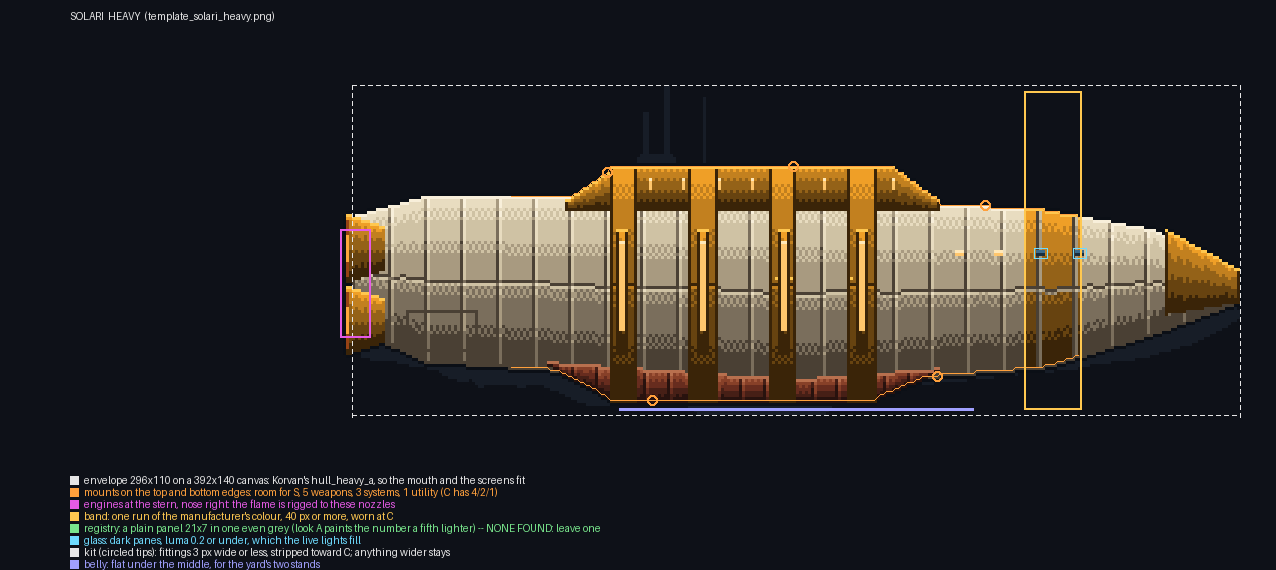
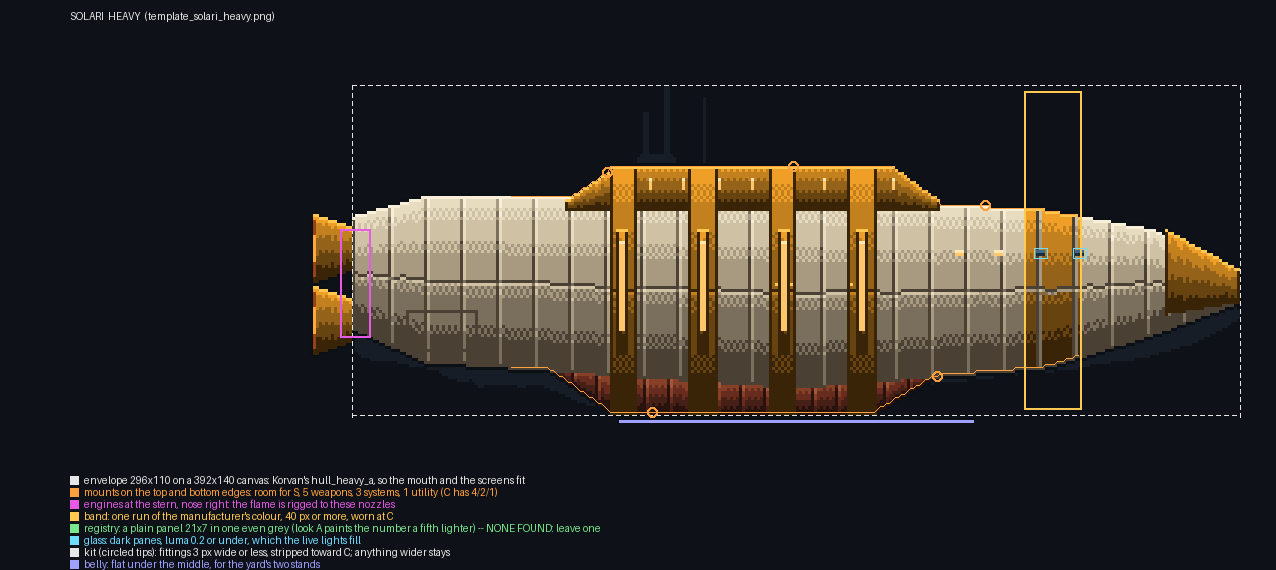
Hull templates: Solari's keel hangs below the belly, the bells on the stern face; Nova's brass nose back on top
Claude-Session: https://claude.ai/code/session_01FQemMvme1wfvjCSMpMkDgS

diff --git a/tkg/art/tools/hull_template.py b/tkg/art/tools/hull_template.py
@@ -135,7 +135,9 @@ def keel(hull, x0, x1, low, **kw):
     """A keel that hangs from the belly itself: its top follows the hull's
     bottom edge (a pixel inside it, so the two join) and its bottom is flat at
     `low`, the ends swept up into the hull (Jon, Oct 15: "the bottom part of
-    the ship is not connected to the bottom of the rounded hull")."""
+    the ship is not connected to the bottom of the rounded hull"). List it
+    BEFORE the hull, so the hull's edge is drawn over the seam and the keel
+    hangs below the body instead of over it ("the keel is now inside the body")."""
     def belly(x):
         for (a, _, ba), (b, _, bb) in zip(hull, hull[1:]):
             if a <= x <= b:
@@ -145,7 +147,7 @@ def keel(hull, x0, x1, low, **kw):
     pts = []
     for i in range(n + 1):
         x = x0 + (x1 - x0) * i / n
-        top = belly(x) - .02
+        top = belly(x) - .01
         end = min(i, n - i) / 2.0          # the last two steps sweep up
         bot = low if end >= 1 else top + (low - top) * end
         pts.append((x, top, max(top + .005, bot)))
@@ -178,25 +180,25 @@ def crest(x0, x1, top, n):
 SPECS = {
  'solari': {
   'light': {'parts': [
+     keel([(.04, .40, .72), (.18, .34, .82), (.38, .35, .82), (.50, .40, .74), (.60, .45, .68)], .08, .48, .91, seams=6),
      P(('prof', [(.44, .47, .65), (.8, .51, .61), (1, .55, .57)]), 'tile', seams=12, rivets=False, band=(.62, .70)),
      P(('prof', [(.04, .40, .72), (.18, .34, .82), (.38, .35, .82), (.50, .40, .74), (.60, .45, .68)]), 'tile', seams=8, rivets=False, belt=.55,
-       ports=[(.32, .45, .9, 3, 3, 2, 1)], hatch=[(.6, .6, .85, .85)]),
-     keel([(.04, .40, .72), (.18, .34, .82), (.38, .35, .82), (.50, .40, .74), (.60, .45, .68)], .08, .48, .87, seams=6)] + crest(.12, .44, .34, 6) + rings(.12, .44, .34, .84, 3, low=.87),
+       ports=[(.32, .45, .9, 3, 3, 2, 1)], hatch=[(.6, .6, .85, .85)])] + crest(.12, .44, .34, 6) + rings(.12, .44, .34, .84, 3, low=.91),
    'kit': [],
-   'noz': [(.50, .12), (.68, .12)], 'noz_mat': 'acc'},
+   'noz': [(.50, .12), (.68, .12)], 'noz_mat': 'acc', 'noz_out': True, 'noz_x': .04},
   'medium': {'parts': [
+     keel([(0, .40, .70), (.1, .34, .78), (.5, .34, .82), (.75, .38, .78), (.9, .44, .70), (1, .50, .64)], .08, .60, .91, seams=8),
      P(('prof', [(0, .40, .70), (.1, .34, .78), (.5, .34, .82), (.75, .38, .78), (.9, .44, .70), (1, .50, .64)]), 'tile', seams=10,
-       rivets=False, belt=.48, ports=[(.3, .62, .8, 4, 3, 2, 2)], band=(.68, .74)),
-     keel([(0, .40, .70), (.1, .34, .78), (.5, .34, .82), (.75, .38, .78), (.9, .44, .70), (1, .50, .64)], .08, .60, .87, seams=8)] + crest(.12, .56, .34, 9) + rings(.12, .56, .34, .82, 3, low=.87),
+       rivets=False, belt=.48, ports=[(.3, .62, .8, 4, 3, 2, 2)], band=(.68, .74))] + crest(.12, .56, .34, 9) + rings(.12, .56, .34, .82, 3, low=.91),
    'kit': [],
-   'noz': [(.48, .12), (.64, .12)], 'noz_mat': 'acc'},
+   'noz': [(.48, .12), (.64, .12)], 'noz_mat': 'acc', 'noz_out': True},
   'heavy': {'parts': [
+     keel([(0, .40, .74), (.08, .34, .84), (.5, .34, .92), (.78, .38, .86), (.9, .44, .76), (1, .56, .66)], .22, .66, 1.0, seams=8),
      P(('prof', [(0, .40, .74), (.08, .34, .84), (.5, .34, .92), (.78, .38, .86), (.9, .44, .76), (1, .56, .66)]), 'tile', seams=12, rivets=False,
        belt=.5, ports=[(.28, .66, .84, 4, 3, 2, 2)], band=(.76, .82), hatch=[(.06, .6, .14, .8)]),
-     keel([(0, .40, .74), (.08, .34, .84), (.5, .34, .92), (.78, .38, .86), (.9, .44, .76), (1, .56, .66)], .22, .66, .96, seams=8),
-     P(('poly', [(.92, .44), (1, .56), (1, .66), (.92, .70)]), 'acc')] + crest(.26, .62, .34, 9) + rings(.26, .62, .34, .92, 4, low=.96),
+     P(('poly', [(.92, .44), (1, .56), (1, .66), (.92, .70)]), 'acc')] + crest(.26, .62, .34, 9) + rings(.26, .62, .34, .92, 4, low=1.0),
    'kit': [],
-   'noz': [(.50, .14), (.72, .14)], 'noz_mat': 'acc'},
+   'noz': [(.50, .14), (.72, .14)], 'noz_mat': 'acc', 'noz_out': True},
  },
  'probate': {
   'light': {'parts': [
@@ -594,9 +596,9 @@ def render(maker, weight):
         for i in range(bw):
             half = hh // 2 + (bw - i) // 3
             for yy in range(cy - half, cy + half + 1):
-                # noz_in pulls the bells into the stern (Solari: Jon, Oct 15, "it
-                # sticks out of the back")
-                xx = x0 - 2 + i + spec.get('noz_in', 0)
+                # noz_out hangs the whole bell behind the stern, none of it over
+                # the hull (Solari: Jon, Oct 15, "the engine bells are inside the hull")
+                xx = (X(spec.get('noz_x', 0)) - bw + i) if spec.get('noz_out') else (x0 - 2 + i + spec.get('noz_in', 0))
                 f = (yy - (cy - half)) / max(1, 2 * half)
                 nm = acc if spec.get('noz_mat') == 'acc' else MAT[spec.get('noz_mat', 'gun')]
                 c = nm[5] if yy == cy - half else _shade(nm, f, xx, yy)
